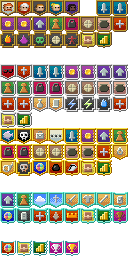
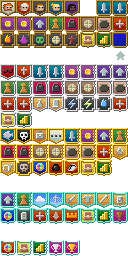
ReInc 0.3.0: implemented attunement badges

Changed region(s): [[0.875, 0.125, 1.0, 0.25]]

diff --git a/core/src/main/java/com/shatteredpixel/shatteredpixeldungeon/Badges.java b/core/src/main/java/com/shatteredpixel/shatteredpixeldungeon/Badges.java
@@ -82,6 +82,7 @@ public class Badges {
 		DEATH_FROM_FALLING          ( 20 ),
 		GAMES_PLAYED_1              ( 21, true ),
 		HIGH_SCORE_1                ( 22 ),
+		ATTUNEMENT_ATTAINED_1       ( 23 ),
 
 		//silver
 		NO_MONSTERS_SLAIN           ( 32 ),
@@ -116,6 +117,8 @@ public class Badges {
 		BOSS_SLAIN_1_ALL_CLASSES    ( 55, true ),
 		GAMES_PLAYED_2              ( 56, true ),
 		HIGH_SCORE_2                ( 57 ),
+		ATTUNEMENT_ATTAINED_2       ( 58 ),
+		ATTUNEMENT_ATTAINED_3       ( 59 ),
 
 		//gold
 		PIRANHAS                    ( 64 ),
@@ -145,6 +148,8 @@ public class Badges {
 		BOSS_CHALLENGE_2            ( 84 ),
 		GAMES_PLAYED_3              ( 85, true ),
 		HIGH_SCORE_3                ( 86 ),
+		ATTUNEMENT_ATTAINED_4       ( 87 ),
+		ATTUNEMENT_ATTAINED_5       ( 88 ),
 
 		//platinum
 		ITEM_LEVEL_5                ( 96 ),
@@ -439,6 +444,37 @@ public class Badges {
 			local.add( badge );
 		}
 		
+		displayBadge( badge );
+	}
+
+	public static void validateAttunementAttained() {
+		Badge badge = null;
+
+		if (!local.contains( Badge.ATTUNEMENT_ATTAINED_1 ) && Dungeon.hero.ATU >= 2) {
+			badge = Badge.ATTUNEMENT_ATTAINED_1;
+			local.add( badge );
+		}
+		if (!local.contains( Badge.ATTUNEMENT_ATTAINED_2 ) && Dungeon.hero.ATU >= 3) {
+			if (badge != null) unlock(badge);
+			badge = Badge.ATTUNEMENT_ATTAINED_2;
+			local.add( badge );
+		}
+		if (!local.contains( Badge.ATTUNEMENT_ATTAINED_3 ) && Dungeon.hero.ATU >= 4) {
+			if (badge != null) unlock(badge);
+			badge = Badge.ATTUNEMENT_ATTAINED_3;
+			local.add( badge );
+		}
+		if (!local.contains( Badge.ATTUNEMENT_ATTAINED_4 ) && Dungeon.hero.ATU >= 5) {
+			if (badge != null) unlock(badge);
+			badge = Badge.ATTUNEMENT_ATTAINED_4;
+			local.add( badge );
+		}
+		if (!local.contains( Badge.ATTUNEMENT_ATTAINED_5 ) && Dungeon.hero.ATU >= 6) {
+			if (badge != null) unlock(badge);
+			badge = Badge.ATTUNEMENT_ATTAINED_5;
+			local.add( badge );
+		}
+
 		displayBadge( badge );
 	}
 	
@@ -1113,6 +1149,7 @@ public class Badges {
 			{Badge.ITEM_LEVEL_1, Badge.ITEM_LEVEL_2, Badge.ITEM_LEVEL_3, Badge.ITEM_LEVEL_4, Badge.ITEM_LEVEL_5},
 			{Badge.LEVEL_REACHED_1, Badge.LEVEL_REACHED_2, Badge.LEVEL_REACHED_3, Badge.LEVEL_REACHED_4, Badge.LEVEL_REACHED_5},
 			{Badge.STRENGTH_ATTAINED_1, Badge.STRENGTH_ATTAINED_2, Badge.STRENGTH_ATTAINED_3, Badge.STRENGTH_ATTAINED_4, Badge.STRENGTH_ATTAINED_5},
+			{Badge.ATTUNEMENT_ATTAINED_1, Badge.ATTUNEMENT_ATTAINED_2, Badge.ATTUNEMENT_ATTAINED_3, Badge.ATTUNEMENT_ATTAINED_4, Badge.ATTUNEMENT_ATTAINED_5},
 			{Badge.FOOD_EATEN_1, Badge.FOOD_EATEN_2, Badge.FOOD_EATEN_3, Badge.FOOD_EATEN_4, Badge.FOOD_EATEN_5},
 			{Badge.ITEMS_CRAFTED_1, Badge.ITEMS_CRAFTED_2, Badge.ITEMS_CRAFTED_3, Badge.ITEMS_CRAFTED_4, Badge.ITEMS_CRAFTED_5},
 			{Badge.BOSS_SLAIN_1, Badge.BOSS_SLAIN_2, Badge.BOSS_SLAIN_3, Badge.BOSS_SLAIN_4},

diff --git a/core/src/main/java/com/shatteredpixel/shatteredpixeldungeon/items/potions/elixirs/ElixirOfAttunement.java b/core/src/main/java/com/shatteredpixel/shatteredpixeldungeon/items/potions/elixirs/ElixirOfAttunement.java
@@ -53,7 +53,7 @@ public class ElixirOfAttunement extends Elixir {
 
 		GLog.p( Messages.get(this, "msg", hero.ATU()) );
 
-//		Badges.validateStrengthAttained();
+		Badges.validateAttunementAttained();
 //		Badges.validateDuelistUnlock();
 	}
 	
